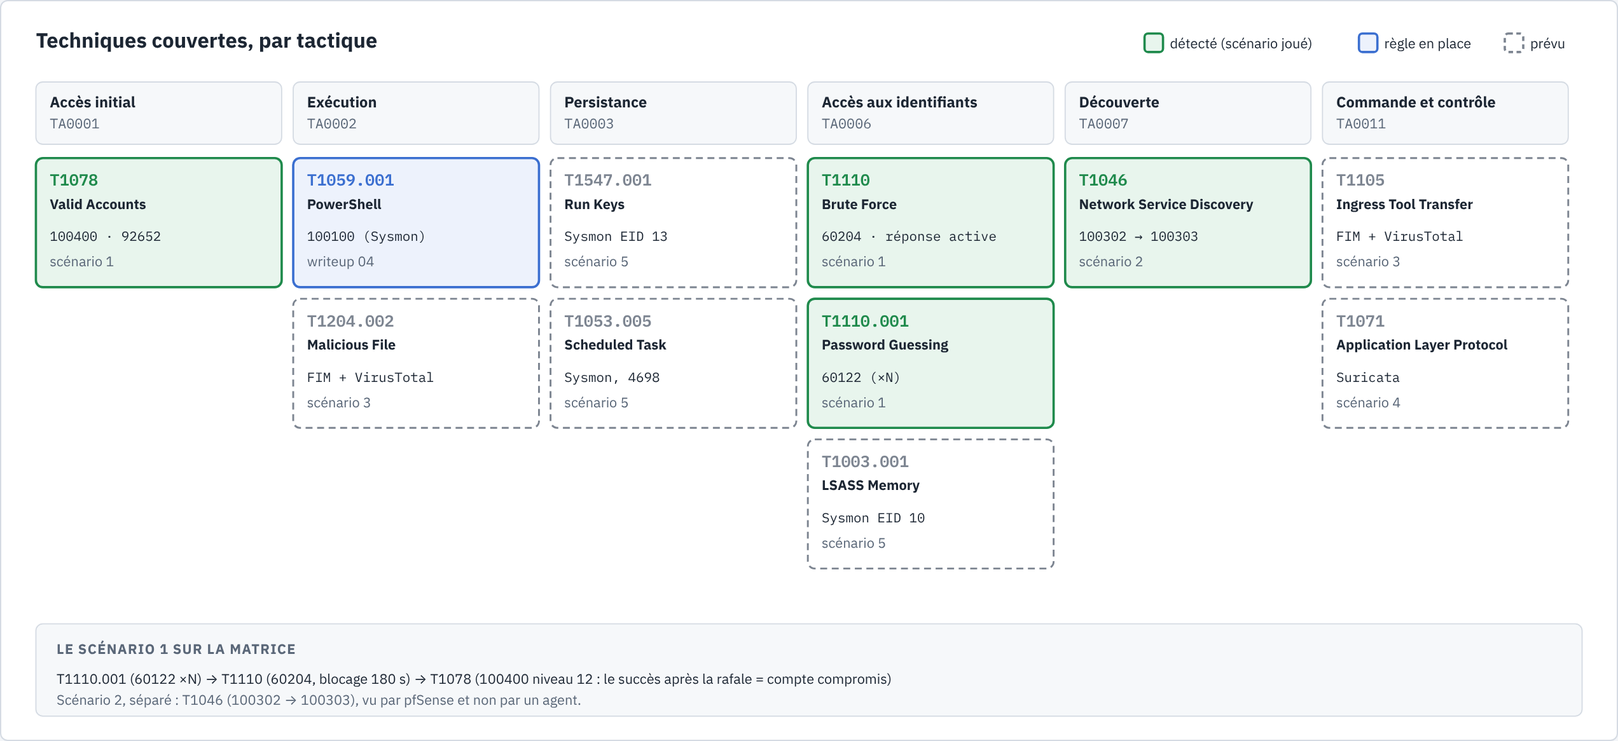
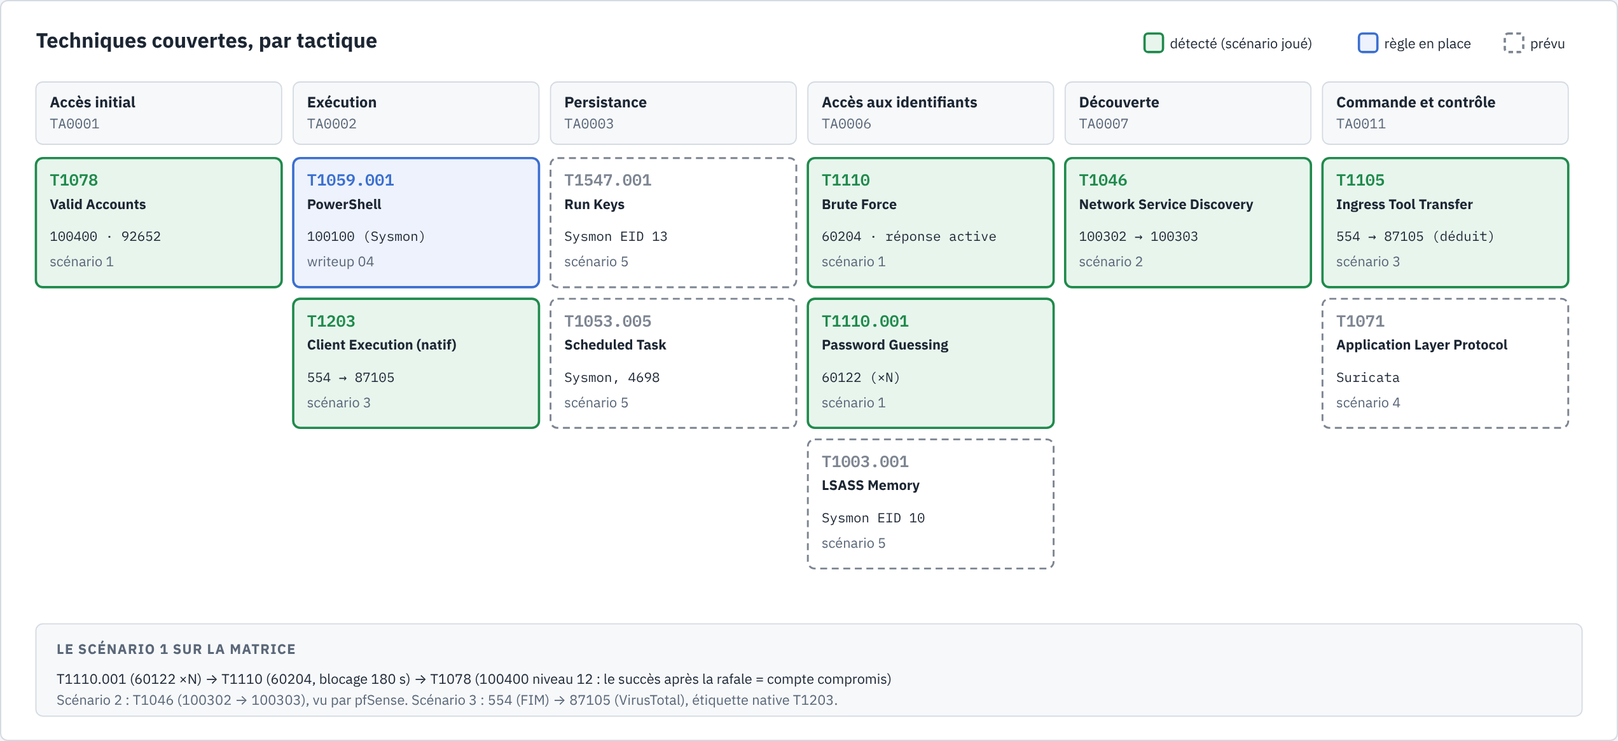
docs: scénario 3, malware déposé détecté par FIM + VirusTotal (fiche, writeup 09, captures 91-93, MITRE)
Claude-Session: https://claude.ai/code/session_01MBU1jtkjzi7DSb5r2363aT

diff --git a/docs/diagrams/mitre-couverture.html b/docs/diagrams/mitre-couverture.html
@@ -54,7 +54,7 @@ code { font-family: var(--font-mono); font-size: .9em; }
 
 <div class="wrap">
   <header>
-    <span class="eyebrow">SIEM_PROJECT · Wazuh 4.14.9 · état au 2026-10-22</span>
+    <span class="eyebrow">SIEM_PROJECT · Wazuh 4.14.9 · état au 2026-10-22, 3 scénarios</span>
     <h1>Couverture MITRE ATT&amp;CK du lab</h1>
     <p>Une colonne par tactique, dans l'ordre d'une attaque. Vert : détection prouvée par un scénario joué. Bleu : règle en place et vue en action, pas encore dans un scénario d'attaque. Gris : prévu dans la roadmap.</p>
   </header>
@@ -79,7 +79,7 @@ const TACTICS = [
     { id: "T1078", n: "Valid Accounts", r: "100400 · 92652", sc: "scénario 1", s: "ok" } ] },
   { id: "TA0002", n: "Exécution", t: [
     { id: "T1059.001", n: "PowerShell", r: "100100 (Sysmon)", sc: "writeup 04", s: "rule" },
-    { id: "T1204.002", n: "Malicious File", r: "FIM + VirusTotal", sc: "scénario 3", s: "plan" } ] },
+    { id: "T1203", n: "Client Execution (natif)", r: "554 → 87105", sc: "scénario 3", s: "ok" } ] },
   { id: "TA0003", n: "Persistance", t: [
     { id: "T1547.001", n: "Run Keys", r: "Sysmon EID 13", sc: "scénario 5", s: "plan" },
     { id: "T1053.005", n: "Scheduled Task", r: "Sysmon, 4698", sc: "scénario 5", s: "plan" } ] },
@@ -90,7 +90,7 @@ const TACTICS = [
   { id: "TA0007", n: "Découverte", t: [
     { id: "T1046", n: "Network Service Discovery", r: "100302 → 100303", sc: "scénario 2", s: "ok" } ] },
   { id: "TA0011", n: "Commande et contrôle", t: [
-    { id: "T1105", n: "Ingress Tool Transfer", r: "FIM + VirusTotal", sc: "scénario 3", s: "plan" },
+    { id: "T1105", n: "Ingress Tool Transfer", r: "554 → 87105 (déduit)", sc: "scénario 3", s: "ok" },
     { id: "T1071", n: "Application Layer Protocol", r: "Suricata", sc: "scénario 4", s: "plan" } ] }
 ];
 const ST = { ok: ["--ok", "--ok-bg", "détecté (scénario joué)"], rule: ["--rule", "--rule-bg", "règle en place"], plan: ["--plan", "--canvas", "prévu"] };
@@ -124,7 +124,7 @@ const ST = { ok: ["--ok", "--ok-bg", "détecté (scénario joué)"], rule: ["--r
   o.push(`<rect x="30" y="${by}" width="1340" height="80" rx="6" style="fill: var(--row); stroke: var(--line)"/>`);
   o.push(T(48, by + 26, "LE SCÉNARIO 1 SUR LA MATRICE", "ztitle muted"));
   o.push(T(48, by + 52, "T1110.001 (60122 ×N) → T1110 (60204, blocage 180 s) → T1078 (100400 niveau 12 : le succès après la rafale = compte compromis)", "sm"));
-  o.push(T(48, by + 70, "Scénario 2, séparé : T1046 (100302 → 100303), vu par pfSense et non par un agent.", "sm muted"));
+  o.push(T(48, by + 70, "Scénario 2 : T1046 (100302 → 100303), vu par pfSense. Scénario 3 : 554 (FIM) → 87105 (VirusTotal), étiquette native T1203.", "sm muted"));
   document.getElementById("grid").innerHTML = o.join("");
 })();
 </script>

diff --git a/docs/scenarios/malware-fim-virustotal.md b/docs/scenarios/malware-fim-virustotal.md
@@ -1,0 +1,171 @@
+# Scénario — Dépôt d'un fichier malveillant : FIM + VirusTotal
+
+MITRE ATT&CK : **T1203** (Exploitation for Client Execution), l'étiquette portée par la règle
+native 87105. Notre lecture de ce que le scénario simule : un fichier malveillant déposé sur le
+poste, **T1105** (Ingress Tool Transfer) en préparation de **T1204.002** (Malicious File)
+(déduit).
+
+Statut : **joué le 2026-10-22** (21:34 heure locale), résultats observés dans le dashboard
+Wazuh 4.14.9.
+
+Sources :
+https://documentation.wazuh.com/current/user-manual/capabilities/malware-detection/virus-total-integration.html,
+https://documentation.wazuh.com/current/user-manual/capabilities/file-integrity/index.html,
+https://github.com/wazuh/wazuh/blob/v4.14.0/ruleset/rules/0490-virustotal_rules.xml (87103-87106),
+https://github.com/wazuh/wazuh/blob/v4.14.0/ruleset/rules/0015-ossec_rules.xml (554),
+https://www.eicar.org/download-anti-malware-testfile/ (fichier de test EICAR),
+https://learn.microsoft.com/powershell/module/defender/add-mppreference.
+
+> Le fichier EICAR n'est **pas** un malware : c'est une chaîne de test inoffensive que tous les
+> antivirus reconnaissent par convention. Joué uniquement sur la VM de lab.
+
+![Chaîne des démons : FIM sur l'agent, integratord, VirusTotal, retour dans analysisd](../diagrams/demons-wazuh.png)
+
+*Planche de référence : la branche orange (integratord → VirusTotal → nouvel événement 87105)
+est exactement ce scénario. Source : [`demons-wazuh.html`](../diagrams/demons-wazuh.html).*
+
+## 1. Objectif
+
+Vérifier que Wazuh détecte un **fichier malveillant déposé** sur Windows 11. Deux capacités
+travaillent ensemble :
+
+- le **FIM** voit qu'un fichier est apparu et calcule son hash ;
+- **VirusTotal** dit si ce hash est connu comme malveillant.
+
+## 2. Topologie
+
+| Rôle | Machine | Détail |
+|---|---|---|
+| Poste ciblé | SIEM-Win11 `10.10.10.101` (agent 001) | FIM temps réel sur `C:\Users\Public\vt-test` |
+| SIEM | Wazuh 4.14.9 `10.10.10.100` | intégration `virustotal` (`wazuh-integratord`) |
+| Service externe | API VirusTotal (Internet, via le NAT de pfSense) | reçoit le **hash**, pas le fichier |
+
+Pas d'attaquant réseau ici : le dépôt est simulé sur le poste lui-même, comme le ferait un
+téléchargement ou une pièce jointe enregistrée.
+
+## 3. Prérequis
+
+**Sur Windows 11 (PowerShell administrateur) :**
+
+1. Créer le dossier de test : `New-Item -ItemType Directory C:\Users\Public\vt-test`.
+2. **Exclure ce dossier de Microsoft Defender**, sinon Defender supprime EICAR avant que le FIM
+   ait pu le voir (voir piège 1) :
+   `Add-MpPreference -ExclusionPath "C:\Users\Public\vt-test"`.
+3. Surveiller ce dossier en temps réel dans l'`ossec.conf` de l'agent (extrait dans
+   [`configs/agent-windows/ossec-localfiles.xml`](../../configs/agent-windows/ossec-localfiles.xml)) :
+
+   ```xml
+   <syscheck>
+     <directories realtime="yes">C:\Users\Public\vt-test</directories>
+   </syscheck>
+   ```
+
+   puis `Restart-Service WazuhSvc` et vérifier `Get-Service WazuhSvc` (Running).
+
+**Sur le manager :** le bloc `<integration>` de
+[`configs/manager/virustotal-integration.xml`](../../configs/manager/virustotal-integration.xml)
+dans `/var/ossec/etc/ossec.conf`, avec la vraie clé API **uniquement sur le serveur** (jamais
+dans git : le dépôt garde `API_KEY`), puis
+`sudo /var/ossec/bin/wazuh-analysisd -t && sudo systemctl restart wazuh-manager`.
+
+## 4. Test
+
+Écrire le fichier EICAR **canonique** dans le dossier surveillé :
+
+```powershell
+Set-Content -Path "C:\Users\Public\vt-test\eicar.com" -Value '<chaîne EICAR officielle>' -NoNewline -Encoding ascii
+Get-ChildItem "C:\Users\Public\vt-test"     # attendu : eicar.com, 68 octets
+```
+
+La chaîne est sur le site d'EICAR. Elle n'est pas reproduite dans ce dépôt pour que les
+antivirus ne signalent pas nos fichiers.
+
+![Dépôt du fichier EICAR, 68 octets](../homelab/screenshots/91-win11-depot-eicar-68-octets.png)
+
+*Capture 91 : le fichier fait bien 68 octets, la taille du fichier EICAR officiel.*
+
+## 5. Trois pièges
+
+### Piège 1 : Defender gagne la course (échec silencieux)
+
+Sans exclusion, Defender met EICAR en quarantaine immédiatement. Selon le moment, le FIM ne voit
+rien ou voit un fichier qui disparaît : **pas de 87105**, et aucune erreur côté Wazuh. Dans le
+lab, on exclut le dossier de test. En production, c'est l'inverse : l'antivirus du poste est la
+première barrière, Wazuh est un second regard et une trace centralisée.
+
+### Piège 2 : un retour à la ligne change le hash
+
+Sans `-NoNewline`, PowerShell ajoute un retour à la ligne. Le fichier fait alors 70 octets au
+lieu de 68 (déduction : CR+LF), et son hash n'est plus celui d'EICAR. VirusTotal répond
+« inconnu » : règle **87103** (niveau 3) au lieu de 87105. C'est une bonne leçon sur les hash :
+**un seul octet de différence donne une empreinte totalement différente**. C'est aussi pour cela
+qu'un attaquant modifie légèrement un malware pour échapper aux listes de hash.
+
+### Piège 3 : le quota de l'API gratuite
+
+La clé publique de VirusTotal est limitée à **4 requêtes par minute** et 500 par jour. D'où
+`<group>syscheck</group>` dans le bloc `<integration>` : seules les alertes FIM sont envoyées. Il
+faut aussi garder la surveillance FIM temps réel sur peu de dossiers. Quota dépassé : règle
+**87101**.
+
+## 6. Détection : attendu contre observé
+
+Recherches dans *Threat Hunting* : `rule.groups:syscheck` puis `rule.groups:virustotal`.
+
+| Étape | Démon | Règle Wazuh | Niveau | Attendu | Observé |
+|---|---|---|---|---|---|
+| Fichier créé dans le dossier surveillé | `syscheck` sur l'agent | **554** File added to the system | 5 | oui | ✅ 21:34:13, SIEM-Win11 (capture 92) |
+| Hash envoyé à VirusTotal, réponse « malveillant » | `wazuh-integratord` sur le manager | **87105** VirusTotal: Alert - c:\users\public\vt-test\eicar.com - 66 engines detected this file | 12 | oui | ✅ 21:34:19 (capture 93) |
+
+Délai observé entre le dépôt et l'alerte de niveau 12 : environ **6 secondes**, dont l'appel à
+l'API VirusTotal.
+
+![Alerte FIM 554](../homelab/screenshots/92-wazuh-554-fichier-ajoute.png)
+
+![Alerte VirusTotal 87105, 66 moteurs](../homelab/screenshots/93-wazuh-87105-virustotal-66-moteurs.png)
+
+### Ce qui se passe entre les deux alertes
+
+1. L'agent (module `syscheck`) détecte la création et calcule MD5, SHA1, SHA256.
+2. Le manager lève la **554**. `wazuh-integratord` voit une alerte du groupe `syscheck` et envoie
+   le hash à l'API VirusTotal.
+3. La réponse revient dans `wazuh-analysisd` comme un **nouvel événement**. La règle 87100
+   reconnaît les messages VirusTotal. Sa fille **87105** se déclenche si
+   `virustotal.malicious` vaut 1, et affiche le nombre de moteurs (`virustotal.positives`).
+
+## 7. Lecture de l'analyste SOC
+
+1. **Les deux alertes vont ensemble.** La 554 seule (niveau 5) se noie dans le bruit : des
+   fichiers apparaissent sans cesse. La 87105 (niveau 12) dit pourquoi celui-ci compte. Le FIM
+   seul voit le mouvement, VirusTotal seul ne voit rien : **ensemble**, c'est une détection de
+   malware par dépôt.
+2. **Lire le score** : 66 moteurs, c'est une détection unanime. Un score de 1 ou 2 mérite une
+   vérification (faux positif possible). Une 87103 (« inconnu ») n'est pas une preuve
+   d'innocence : un malware récent ou modifié est souvent inconnu.
+3. **Questions suivantes** : d'où vient le fichier (navigateur, messagerie, partage SMB) ? A-t-il
+   été exécuté (Sysmon EID 1 avec le même hash) ? Est-il présent ailleurs (recherche du hash sur
+   tous les agents) ?
+4. **Confidentialité** : seul le hash part chez VirusTotal, pas le fichier. Mais tout fichier
+   qu'on y **téléverse** soi-même devient consultable : ne jamais y envoyer un document interne.
+
+### MITRE : l'étiquette native à relire
+
+La 87105 porte **T1203** (Exploitation for Client Execution) quel que soit le fichier détecté.
+Or ici, il n'y a ni exploitation ni exécution : un fichier a été déposé. T1105 (Ingress Tool
+Transfer) puis T1204.002 (Malicious File) décrivent mieux la situation (déduit). Comme pour
+60122 ([scénario 1](brute-force-smb.md)), on ne recopie pas la colonne MITRE sans la lire.
+
+## 8. Remédiation et pistes
+
+| Mesure | Effet | Statut |
+|---|---|---|
+| Réponse active de **suppression** du fichier sur 87105 | retire le malware dès la détection | ⏳ à construire pour Windows, sur le modèle de [`block-ip-win`](../writeup/07-regles-et-reponse-active.md) (la doc Wazuh propose un script `remove-threat`, avec une variante Windows à compiler en `.exe` ; à valider) |
+| Retirer l'exclusion Defender après l'exercice | le poste retrouve sa protection | à faire après chaque test |
+| Clé API premium ou cache local des hash | lève la limite de 4 requêtes par minute | hors lab |
+| Étendre le FIM à `Downloads` et aux dossiers de démarrage | couvre les vrais points de dépôt | à étudier selon le bruit |
+
+## Résultats dans notre lab
+
+| Date | Cible | Règles observées | Délai de détection | Remarques |
+|---|---|---|---|---|
+| 2026-10-22 21:34 | SIEM-Win11, `C:\Users\Public\vt-test\eicar.com` (68 octets) | 554 (niv. 5) à 21:34:13 → 87105 (niv. 12, 66 moteurs) à 21:34:19 | ~6 s | exclusion Defender indispensable ; `-NoNewline` indispensable (sinon 87103) ; pas encore de suppression automatique |

diff --git a/docs/writeup/09-scenario-fim-virustotal.md b/docs/writeup/09-scenario-fim-virustotal.md
@@ -1,0 +1,86 @@
+# Writeup 09 : troisième scénario, un malware déposé repéré par FIM + VirusTotal
+
+> Un fichier de test EICAR est déposé sur Windows 11. Le FIM voit le fichier apparaître,
+> VirusTotal confirme qu'il est malveillant, et Wazuh lève une alerte de niveau 12 six secondes
+> plus tard. L'analyse détaillée est dans la fiche
+> [`docs/scenarios/malware-fim-virustotal.md`](../scenarios/malware-fim-virustotal.md).
+>
+> Versions : Wazuh 4.14.9 (manager et agent Windows), Windows 11. Date : 2026-10-22, 21:34
+> heure locale.
+
+## 1. Comprendre
+
+### 1.1 Deux questions, deux outils
+
+Devant un nouveau fichier, un analyste se pose deux questions : **qu'est-ce qui a changé ?** et
+**est-ce dangereux ?**
+
+- Le **FIM** (*File Integrity Monitoring*) répond à la première. Il connaît l'état de référence
+  du dossier, voit le fichier apparaître et calcule son empreinte (hash).
+- **VirusTotal** répond à la seconde. Il agrège des dizaines d'antivirus et dit combien
+  reconnaissent ce hash.
+
+Wazuh les enchaîne : l'alerte FIM part chez VirusTotal par `wazuh-integratord`. La réponse
+revient comme un nouvel événement, qui déclenche sa propre règle. Le cours sur la chaîne des
+démons est dans [architecture.md](../architecture.md), le fonctionnement du FIM dans
+[integrations/fim.md](../integrations/fim.md).
+
+### 1.2 Pourquoi EICAR
+
+Le fichier EICAR est une chaîne de 68 caractères que tous les antivirus détectent **par
+convention**. Il permet de tester toute la chaîne de détection sans manipuler de vrai malware.
+
+## 2. Mise en place
+
+| Où | Action |
+|---|---|
+| Windows 11 | dossier `C:\Users\Public\vt-test` ; exclusion Defender (`Add-MpPreference -ExclusionPath`) ; `<syscheck>` temps réel sur ce dossier dans l'`ossec.conf` de l'agent ; redémarrage de `WazuhSvc` |
+| Manager | bloc `<integration>` `virustotal` avec `<group>syscheck</group>` et la vraie clé API (sur le serveur seulement, jamais dans git) ; `wazuh-analysisd -t` puis redémarrage |
+
+## 3. Déroulé
+
+| Heure | Où | Ce qui se passe |
+|---|---|---|
+| 21:34 | Windows 11 | `Set-Content ... -NoNewline -Encoding ascii` : `eicar.com`, 68 octets (capture 91) |
+| 21:34:13 | Wazuh | **554** niveau 5, « File added to the system » (capture 92) |
+| 21:34:19 | Wazuh | **87105** niveau 12, « VirusTotal: Alert - c:\users\public\vt-test\eicar.com - 66 engines detected this file » (capture 93) |
+
+![Alerte VirusTotal 87105](../homelab/screenshots/93-wazuh-87105-virustotal-66-moteurs.png)
+
+## 4. Ce qu'on en apprend
+
+### 4.1 L'antivirus du poste peut masquer le test
+
+Defender supprime EICAR dès sa création. Sans exclusion du dossier, le FIM n'a rien à
+rapporter et le test échoue **sans erreur**. C'est le même enseignement que l'agent arrêté du
+writeup 07 : un silence dans le SIEM se vérifie, il ne se conclut pas.
+
+### 4.2 Un octet change tout
+
+Sans `-NoNewline`, PowerShell ajoute un retour à la ligne. Le hash n'est plus celui d'EICAR, et
+VirusTotal répond « inconnu » (87103, niveau 3). La détection par hash est exacte, mais
+fragile : un attaquant qui modifie un seul octet de son outil sort des listes. C'est pourquoi on
+la complète par des détections de **comportement** (Sysmon, prochain scénario).
+
+### 4.3 Un quota à respecter
+
+L'API gratuite accepte 4 requêtes par minute. `<group>syscheck</group>` n'envoie que les
+alertes FIM, et le FIM temps réel reste limité à quelques dossiers.
+
+### 4.4 Ce qui manque : la remédiation automatique
+
+Wazuh détecte, mais le fichier reste en place. L'étape suivante est une réponse active qui le
+supprime sur 87105, construite comme `block-ip-win` (writeup 07). Elle est notée dans la
+[roadmap](../roadmap.md).
+
+## 5. Résultats dans notre lab
+
+| Test | Attendu | Obtenu |
+|---|---|---|
+| Fichier EICAR de 68 octets | 68 octets | ✅ capture 91 |
+| Alerte FIM à la création | 554 | ✅ 21:34:13 |
+| Enrichissement VirusTotal | 87105, niveau 12 | ✅ 21:34:19, 66 moteurs |
+| Délai dépôt → alerte de niveau 12 | quelques secondes | ✅ ~6 s |
+| Suppression automatique du fichier | réponse active sur 87105 | ⏳ à construire |
+
+Sources : voir la [fiche du scénario](../scenarios/malware-fim-virustotal.md).

diff --git a/docs/mitre.md b/docs/mitre.md
@@ -14,6 +14,8 @@ la preuve. Il est tenu à jour à chaque scénario (voir la [roadmap](roadmap.md
 | Accès aux identifiants (TA0006) | **T1110** Brute Force | 60204 (native), puis réponse active `block-ip-win` | 10 | journal Security de Windows, agent | [scénario 1](scenarios/brute-force-smb.md), [writeup 07](writeup/07-regles-et-reponse-active.md) |
 | Accès aux identifiants (TA0006) | **T1110.001** Password Guessing (déduit) | 60122 (native), une par essai | 5 | idem | [scénario 1](scenarios/brute-force-smb.md) |
 | Accès initial (TA0001) | **T1078** Valid Accounts (déduit) | **100400** (locale) « succès après rafale » ; 92652 (native) | 12 ; 6 | idem | [writeup 07, § 1.4](writeup/07-regles-et-reponse-active.md) |
+| Exécution (TA0002) | **T1203** Exploitation for Client Execution (étiquette native de 87105) | 554 (FIM) → **87105** (VirusTotal) | 5 → 12 | FIM de l'agent + API VirusTotal | [scénario 3](scenarios/malware-fim-virustotal.md) |
+| Commande et contrôle (TA0011) | **T1105** Ingress Tool Transfer (déduit : le dépôt du fichier) | idem | | idem | [scénario 3](scenarios/malware-fim-virustotal.md) |
 | Découverte (TA0007) | **T1046** Network Service Discovery | 100302 → **100303** (locales) | 5 → 10 | `filterlog` de pfSense, syslog | [scénario 2](scenarios/scan-nmap.md) |
 
 ## Règle en place, pas encore dans un scénario d'attaque
@@ -26,8 +28,7 @@ la preuve. Il est tenu à jour à chaque scénario (voir la [roadmap](roadmap.md
 
 | Tactique | Technique | Moyen de détection | Scénario |
 |---|---|---|---|
-| Exécution (TA0002) | T1204.002 Malicious File (déduit) | FIM + VirusTotal (EICAR) | 3 |
-| Commande et contrôle (TA0011) | T1105 Ingress Tool Transfer (déduit) | FIM + VirusTotal | 3 |
+| Exécution (TA0002) | T1204.002 Malicious File (déduit) | Sysmon EID 1 sur un fichier signalé par VirusTotal (exécution réelle) | 5 |
 | Commande et contrôle (TA0011) | T1071 Application Layer Protocol (déduit) | Suricata | 4 |
 | Accès aux identifiants (TA0006) | T1003.001 LSASS Memory | Sysmon EID 10 | 5 |
 | Persistance (TA0003) | T1547.001 Run Keys | Sysmon EID 13 | 5 |
@@ -39,6 +40,7 @@ la preuve. Il est tenu à jour à chaque scénario (voir la [roadmap](roadmap.md
 |---|---|---|---|
 | 60122 (native) | T1531 Account Access Removal (Impact) | un échec de connexion ne supprime aucun accès | T1110 / T1110.001 |
 | 87702 (native pfSense) | T1110 Brute Force | des blocages répétés signalent surtout un scan | T1046 (notre 100303) |
+| 87105 (native VirusTotal) | T1203 Exploitation for Client Execution | même étiquette pour tout fichier détecté, sans exploitation ni exécution | T1105 puis T1204.002 selon ce qu'on observe |
 
 Sources : https://attack.mitre.org/ (matrice Enterprise),
 https://github.com/wazuh/wazuh/tree/v4.14.0/ruleset/rules (étiquettes des règles natives).

diff --git a/docs/roadmap.md b/docs/roadmap.md
@@ -27,7 +27,8 @@ Statuts : ✅ fait · 🔄 en cours · ⏳ à venir. Mis à jour le 2026-10-22.
 |---|---|---|---|---|---|
 | 1 | Brute force SMB sur Windows 11 : journaux Windows, corrélation 60204, **réponse active** (blocage 180 s), règle locale **100400** « succès après rafale » | T1110, T1110.001, T1078 | lire un 4625, distinguer tentative et compromission, automatiser une réponse | ✅ | [fiche](scenarios/brute-force-smb.md), [writeup 06](writeup/06-scenario-brute-force-smb.md), [writeup 07](writeup/07-regles-et-reponse-active.md) |
 | 2 | Scan nmap à travers pfSense : journaux du pare-feu, corrélation 100303 | T1046 | détecter la reconnaissance, connaître les angles morts d'une règle | ✅ | [fiche](scenarios/scan-nmap.md), [writeup 08](writeup/08-scenario-scan-nmap.md) |
-| 3 | **FIM + VirusTotal** : dépôt du fichier de test EICAR, détection par l'intégrité des fichiers puis VirusTotal, **suppression automatique** (réponse active) | T1204.002, T1105 (déduits) | traiter une alerte malware, enrichir avec une réputation externe, remédiation automatique | 🔄 | [intégration VirusTotal](integrations/virustotal.md), [FIM](integrations/fim.md) |
+| 3 | **FIM + VirusTotal** : dépôt du fichier de test EICAR, alerte FIM 554 puis VirusTotal 87105 (niveau 12, 66 moteurs) en ~6 s | T1203 (étiquette native), T1105 et T1204.002 (déduits) | traiter une alerte malware, enrichir avec une réputation externe | ✅ | [fiche](scenarios/malware-fim-virustotal.md), [writeup 09](writeup/09-scenario-fim-virustotal.md) |
+| 3 bis | Réponse active de **suppression du fichier** sur 87105 (Windows, modèle `block-ip-win`) | — | remédiation automatique d'un malware | ⏳ | [fiche, § 8](scenarios/malware-fim-virustotal.md) |
 | 4 | **Suricata** (IDS) : signatures réseau sur le trafic que pfSense autorise | T1046, T1071 (déduits) | lire une alerte IDS, couvrir l'angle mort du scénario 2 | ⏳ | [intégration Suricata](integrations/suricata.md) |
 | 5 | **Sysmon, accès aux identifiants et persistance** : lecture de LSASS, clé Run, tâche planifiée | T1003.001, T1547.001, T1053.005 | détecter sur la télémétrie d'un endpoint, écrire des règles enfants Sysmon | ⏳ | [Windows et Sysmon](integrations/windows-logs-sysmon.md) |
 | 6 | **SCA** (Security Configuration Assessment), référentiel CIS de Windows 11 | (posture, pas une technique) | mesurer et suivre une conformité | ⏳ | à écrire |
@@ -56,4 +57,4 @@ vue par Sysmon, T1059.001), validée sur de l'activité normale ([writeup 04](wr
 
 ## Prochaine étape
 
-Scénario 3 : **FIM + VirusTotal** avec EICAR et suppression automatique du fichier.
+Scénario 3 bis (suppression automatique du fichier EICAR sur 87105), puis scénario 4 : **Suricata**.

diff --git a/README.md b/README.md
@@ -6,7 +6,7 @@ attaques pour vérifier ce que Wazuh détecte, comment il corrèle et comment il
 
 > **Statut au 2026-10-22** : le lab est monté et durci. Il comprend pfSense CE 2.9.0,
 > Wazuh 4.14.9 (OVA), un agent Windows 11 avec Sysmon, et Kali sur un réseau d'attaque séparé.
-> **Deux scénarios** ont été joués et validés en live, et une réponse active bloque
+> **Trois scénarios** ont été joués et validés en live, et une réponse active bloque
 > automatiquement l'attaquant. Suite : voir la [roadmap](docs/roadmap.md).
 > Toute affirmation non testée est marquée « à valider ».
 
@@ -27,6 +27,7 @@ attaques pour vérifier ce que Wazuh détecte, comment il corrèle et comment il
 |---|---|---|---|---|
 | 1 | Brute force SMB sur Windows 11 | T1110, T1110.001, T1078 | 60122 par essai → 60204 (niv. 10) → **réponse active** : IP bloquée 180 s → **100400** (niv. 12) si un compte est ensuite ouvert | [brute-force-smb.md](docs/scenarios/brute-force-smb.md) |
 | 2 | Scan de ports nmap à travers pfSense | T1046 | 100302 par paquet bloqué → **100303** (niv. 10, scan probable) | [scan-nmap.md](docs/scenarios/scan-nmap.md) |
+| 3 | Fichier malveillant déposé (EICAR) | T1203 (natif), T1105 | FIM **554** (niv. 5) → VirusTotal **87105** (niv. 12, 66 moteurs) en ~6 s | [malware-fim-virustotal.md](docs/scenarios/malware-fim-virustotal.md) |
 
 Couverture complète par tactique : [docs/mitre.md](docs/mitre.md).
 
@@ -42,6 +43,7 @@ Couverture complète par tactique : [docs/mitre.md](docs/mitre.md).
 | [06 · Scénario 1 : brute force SMB](docs/writeup/06-scenario-brute-force-smb.md) | Première détection : 4625, 60122, 60204, pièges de préparation |
 | [07 · Règles et réponse active](docs/writeup/07-regles-et-reponse-active.md) | Cours sur les règles, réponse active testée en live, règle locale 100400 |
 | [08 · Scénario 2 : scan nmap](docs/writeup/08-scenario-scan-nmap.md) | pfSense comme témoin, 100302 et 100303, angle mort d'une règle |
+| [09 · Scénario 3 : FIM + VirusTotal](docs/writeup/09-scenario-fim-virustotal.md) | EICAR détecté en ~6 s : 554 puis 87105, pièges Defender, `-NoNewline` et quota |
 | [Annexe · Simulateur de paquets](docs/writeup/annexe-simulateur-paquets.md) | Simulateur façon Packet Tracer (ARP, DHCP, NAT, syslog, agent, Kali), avec vidéos |
 
 ## Documents de référence

diff --git a/docs/homelab/screenshots/README.md b/docs/homelab/screenshots/README.md
@@ -101,3 +101,6 @@ Captures volontairement **non versionnées** (mot de passe visible) : les sortie
 | 88 | [88-wazuh-100400-succes-apres-rafale.png](88-wazuh-100400-succes-apres-rafale.png) | Threat Hunting `rule.id:100400` : **1 hit niveau 12**, SIEM-Win11, « connexion réussie de labtest depuis 10.10.20.10 juste après une rafale d'échecs » (20:48:02) |
 | 89 | [89-wazuh-100302-rafale-scan.png](89-wazuh-100302-rafale-scan.png) | Scan nmap : rafale de **100302** `pfSense : paquet bloqué 10.10.20.10 -> 10.10.10.100 (tcp) sur em0`, niveau 5 (21:00:46) |
 | 90 | [90-wazuh-100303-scan-probable.png](90-wazuh-100303-scan-probable.png) | **100303** niveau 10 : « blocages répétés depuis 10.10.20.10 (scan probable) » (21:00:45) |
+| 91 | [91-win11-depot-eicar-68-octets.png](91-win11-depot-eicar-68-octets.png) | Windows 11 : dépôt du fichier de test EICAR avec `Set-Content -NoNewline -Encoding ascii`, **68 octets** dans `C:\Users\Public\vt-test` |
+| 92 | [92-wazuh-554-fichier-ajoute.png](92-wazuh-554-fichier-ajoute.png) | `rule.groups:syscheck` : **554** niveau 5 « File added to the system », SIEM-Win11 (21:34:13) |
+| 93 | [93-wazuh-87105-virustotal-66-moteurs.png](93-wazuh-87105-virustotal-66-moteurs.png) | `rule.groups:virustotal` : **87105** niveau 12 « c:\users\public\vt-test\eicar.com - 66 engines detected this file » (21:34:19) |

diff --git a/docs/detection.md b/docs/detection.md
@@ -43,7 +43,7 @@ consigner (alerte, `rule.id`, niveau, capture).
 | 1 | [Brute force SSH / RDP](scenarios/brute-force.md) | Hydra depuis Kali | Linux sshd : règles 5551, 5712 ; Windows RDP : 60122, 60204 (Event ID 4625) ; réponse active | T1110 (déduit) |
 | 1 bis | [Brute force SMB sur Windows 11](scenarios/brute-force-smb.md) — **joué le 2026-10-22** | `smbclient` depuis Kali (10.10.20.10) | Observé : 60122 par essai (niv. 5), 60204 (niv. 10), réponse active (blocage 180 s), 100400 au succès (niv. 12) | T1110, T1110.001, T1078 (déduits) |
 | 2 | Modification de fichiers surveillés | Manuel | Alertes FIM (niveaux 5 et 7 selon UsmanPrime) | T1565 (déduit) |
-| 3 | Fichier malveillant de test | EICAR | Alerte Defender et/ou VirusTotal | T1204 (déduit) |
+| 3 | [Fichier malveillant de test : FIM + VirusTotal](scenarios/malware-fim-virustotal.md) — **joué le 2026-10-22** | EICAR déposé sur Windows 11 | Observé : 554 (niv. 5) puis 87105 (niv. 12, 66 moteurs) en ~6 s | T1203 (natif), T1105 / T1204.002 (déduits) |
 | 4 | Exécution de processus | `powershell.exe` | Règle personnalisée Sysmon niveau 8 | T1059.001 |
 | 5 | [Scan de ports nmap](scenarios/scan-nmap.md) — **joué le 2026-10-22** | `nmap -sS -Pn` depuis Kali vers Wazuh | Observé : 100302 en rafale (niv. 5), 100303 ×1 (niv. 10) ; Suricata à venir | T1046 |
 

diff --git a/docs/scenarios/README.md b/docs/scenarios/README.md
@@ -11,6 +11,7 @@ prérequis, attaque, détection attendue contre observée, lecture SOC, remédia
 |---|---|---|---|---|---|
 | 1 | [Brute force SMB sur Windows 11](brute-force-smb.md) | T1110, T1110.001, T1078 | agent Windows (journal Security) | 60122, 60204, réponse active `block-ip-win`, 100400 | [06](../writeup/06-scenario-brute-force-smb.md), [07](../writeup/07-regles-et-reponse-active.md) |
 | 2 | [Scan de ports nmap](scan-nmap.md) | T1046 | pfSense (`filterlog`, syslog) | 100302, 100303 | [08](../writeup/08-scenario-scan-nmap.md) |
+| 3 | [Fichier malveillant : FIM + VirusTotal](malware-fim-virustotal.md) | T1203 (natif), T1105 | agent Windows (FIM) + API VirusTotal | 554, 87105 | [09](../writeup/09-scenario-fim-virustotal.md) |
 
 ## Préparés, pas encore joués
 
@@ -18,5 +19,5 @@ prérequis, attaque, détection attendue contre observée, lecture SOC, remédia
 |---|---|---|
 | [Brute force SSH / RDP](brute-force.md) | T1110 | 5710-5712 et 5551 (Linux), 60122 et 60204 (Windows) |
 
-Les scénarios suivants (FIM + VirusTotal, Suricata, Sysmon) sont planifiés dans la
+Les scénarios suivants (suppression automatique, Suricata, Sysmon) sont planifiés dans la
 [roadmap](../roadmap.md) ; la couverture par technique est dans [mitre.md](../mitre.md).

diff --git a/docs/integrations/virustotal.md b/docs/integrations/virustotal.md
@@ -58,3 +58,5 @@ Déposer le fichier de test **EICAR** dans le dossier surveillé. Attendu : aler
 désactiver temporairement la protection en temps réel, **sur la VM de lab uniquement**.
 
 Recherche : `rule.groups:virustotal`.
+
+**Joué le 2026-10-22** : 554 puis 87105 (niveau 12, 66 moteurs) en ~6 s. Fiche : [malware-fim-virustotal.md](../scenarios/malware-fim-virustotal.md).
